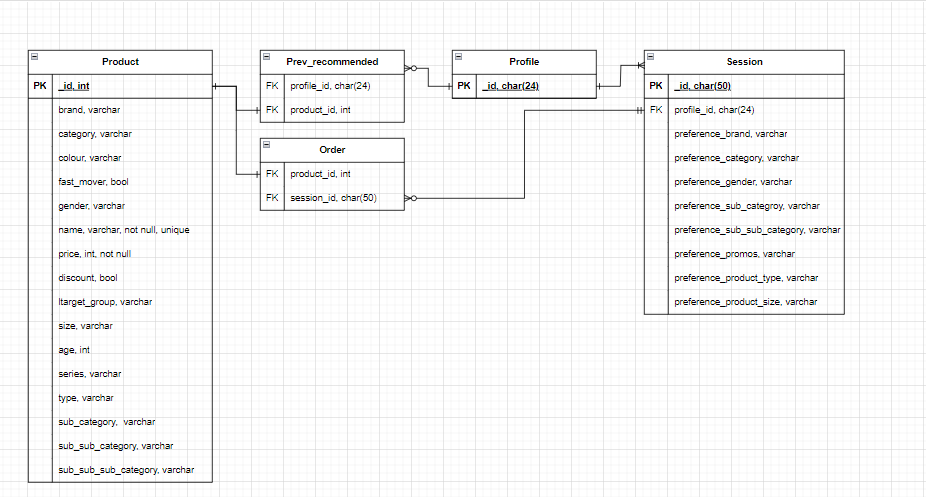
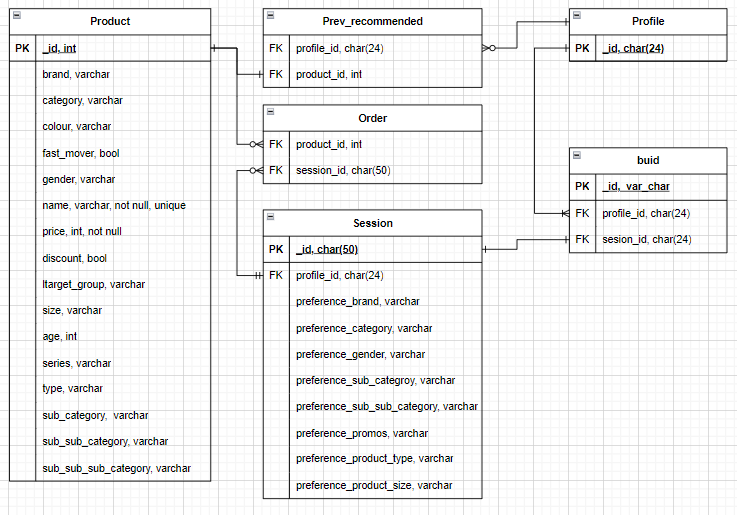
Added buid to ERD
Forgot that buid was needed to connect sessions to profiles, updated ERD, DDL, DROP, created first half of sessions_to_postgre(), added comments to know where to continue

diff --git a/postgre_functions.py b/postgre_functions.py
@@ -53,6 +53,34 @@ def profiles_to_postgre(cursor, profiles):
         if 'previously_recommended' in profile:
             for item in profile['previously_recommended']:
                 cursor.execute("INSERT INTO prev_recommended (user_profile_id, product_id) VALUES (%s, %s)", (profile['_id'], item))
+        # CREATE BUID LEAVE SESSION_ID EMPTY
+
+def sessions_to_postgre(cursor, sessions):
+    """
+    saves all fitted session information to the postgre database
+
+    cursor: the postgre cursor
+    products: a list of dicts containing the fitted session info
+    """
+    # first create a row in the session, then create rows for every order (see ERD.png)
+    for session in sessions:
+        # create lists for keys and values
+        keys = []
+        values = []
+
+        # Loop over the dictionary and append key-value pairs to the lists
+        for key, value in session.items():
+            if key.startswith('preferences_') or key == '_id':
+                keys.append(key)
+                values.append(value)
+
+        cursor.execute(f"INSERT INTO user_session ({keys}) VALUES ({values})")
+
+        if 'products' in session:
+            for product in session['products']:
+                cursor.execute('INSERT INTO session_order (product_id, session_id) VALUES (%s, %s)', (product, session['_id']))
+
+        # FILL EXISTING BUID ROWS WITH SESSION_ID
 
 def close_postgre(cursor, connection):
     """

diff --git a/mongo_functions.py b/mongo_functions.py
@@ -119,6 +119,8 @@ def collect_profile_data(db):
         if 'previously_recommended' in record and len(record['previously_recommended']) > 0:
             item_dict['previously_recommended'] = record['previously_recommended']
         
+        # ADD BUIDS (MAYBE FIT LATER?)
+
         # add record to the list
         item_dicts.append(item_dict)
 
@@ -186,5 +188,5 @@ def collect_session_data(db):
                 item_dict['products'] = record['order']['products']
 
             item_dicts.append(item_dict)
-            
+
     return item_dicts
